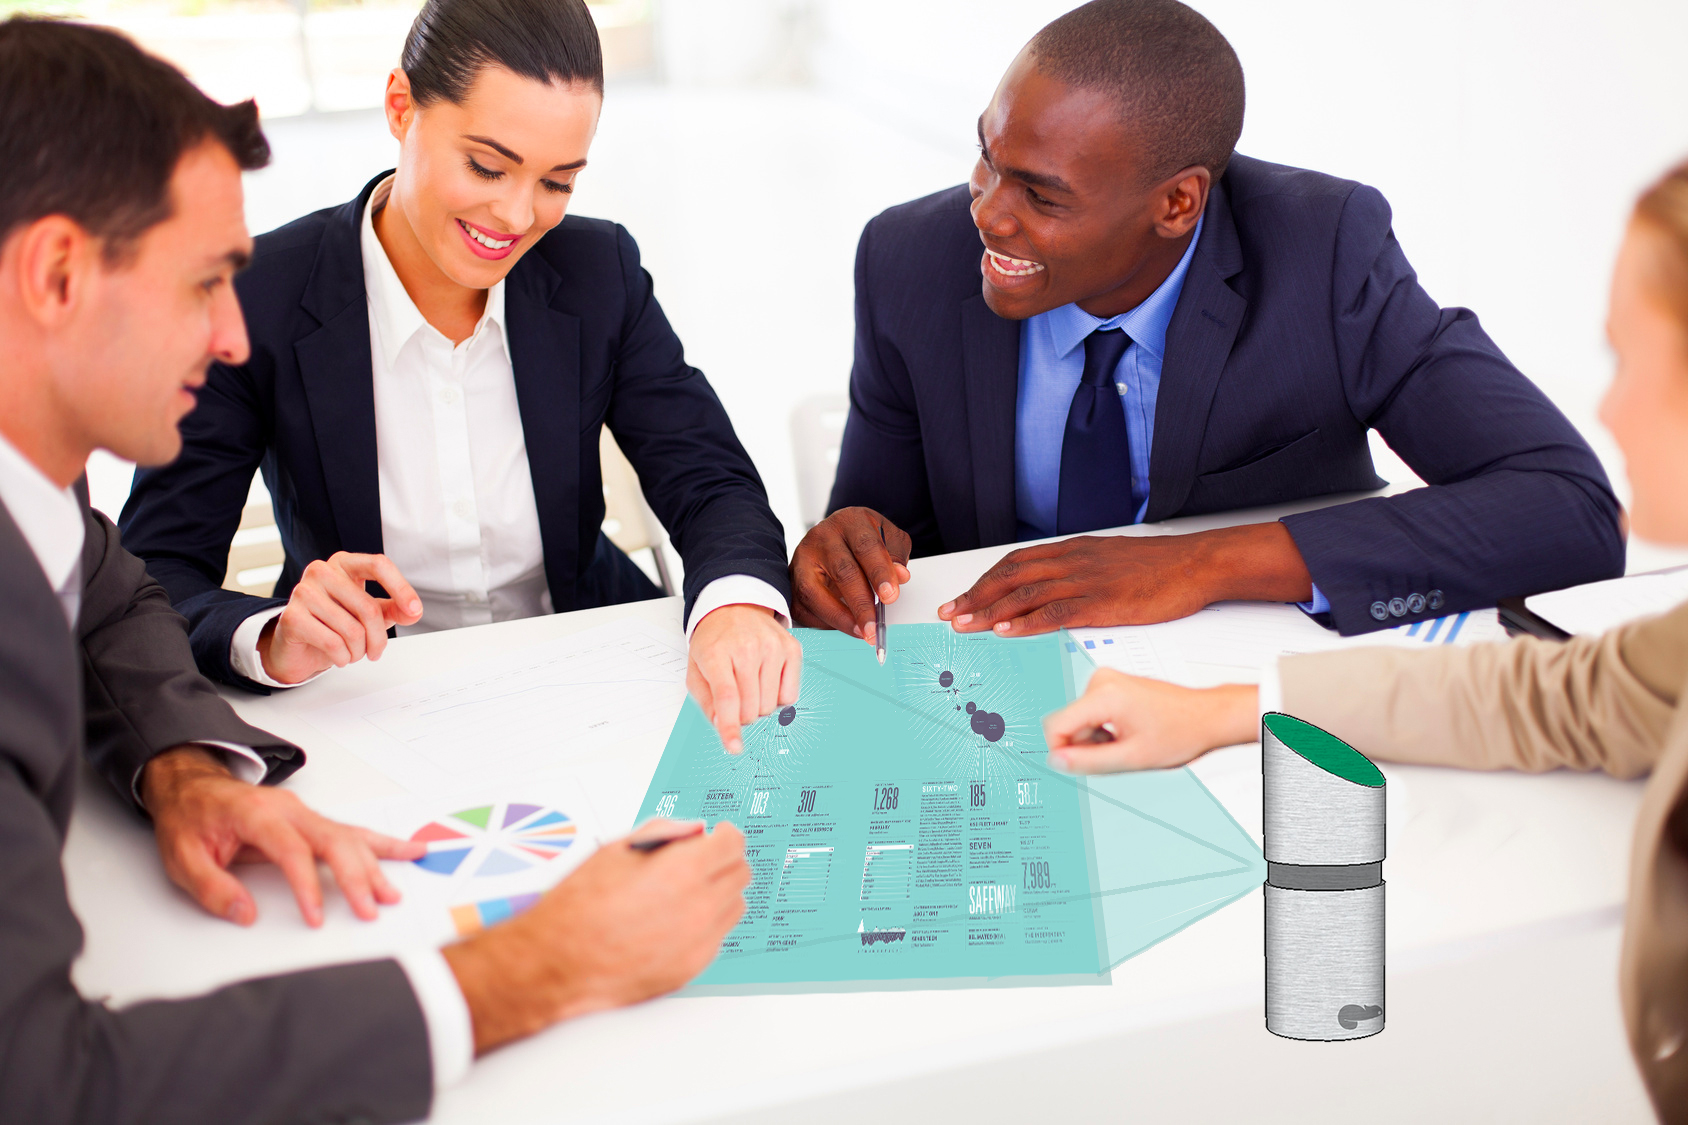
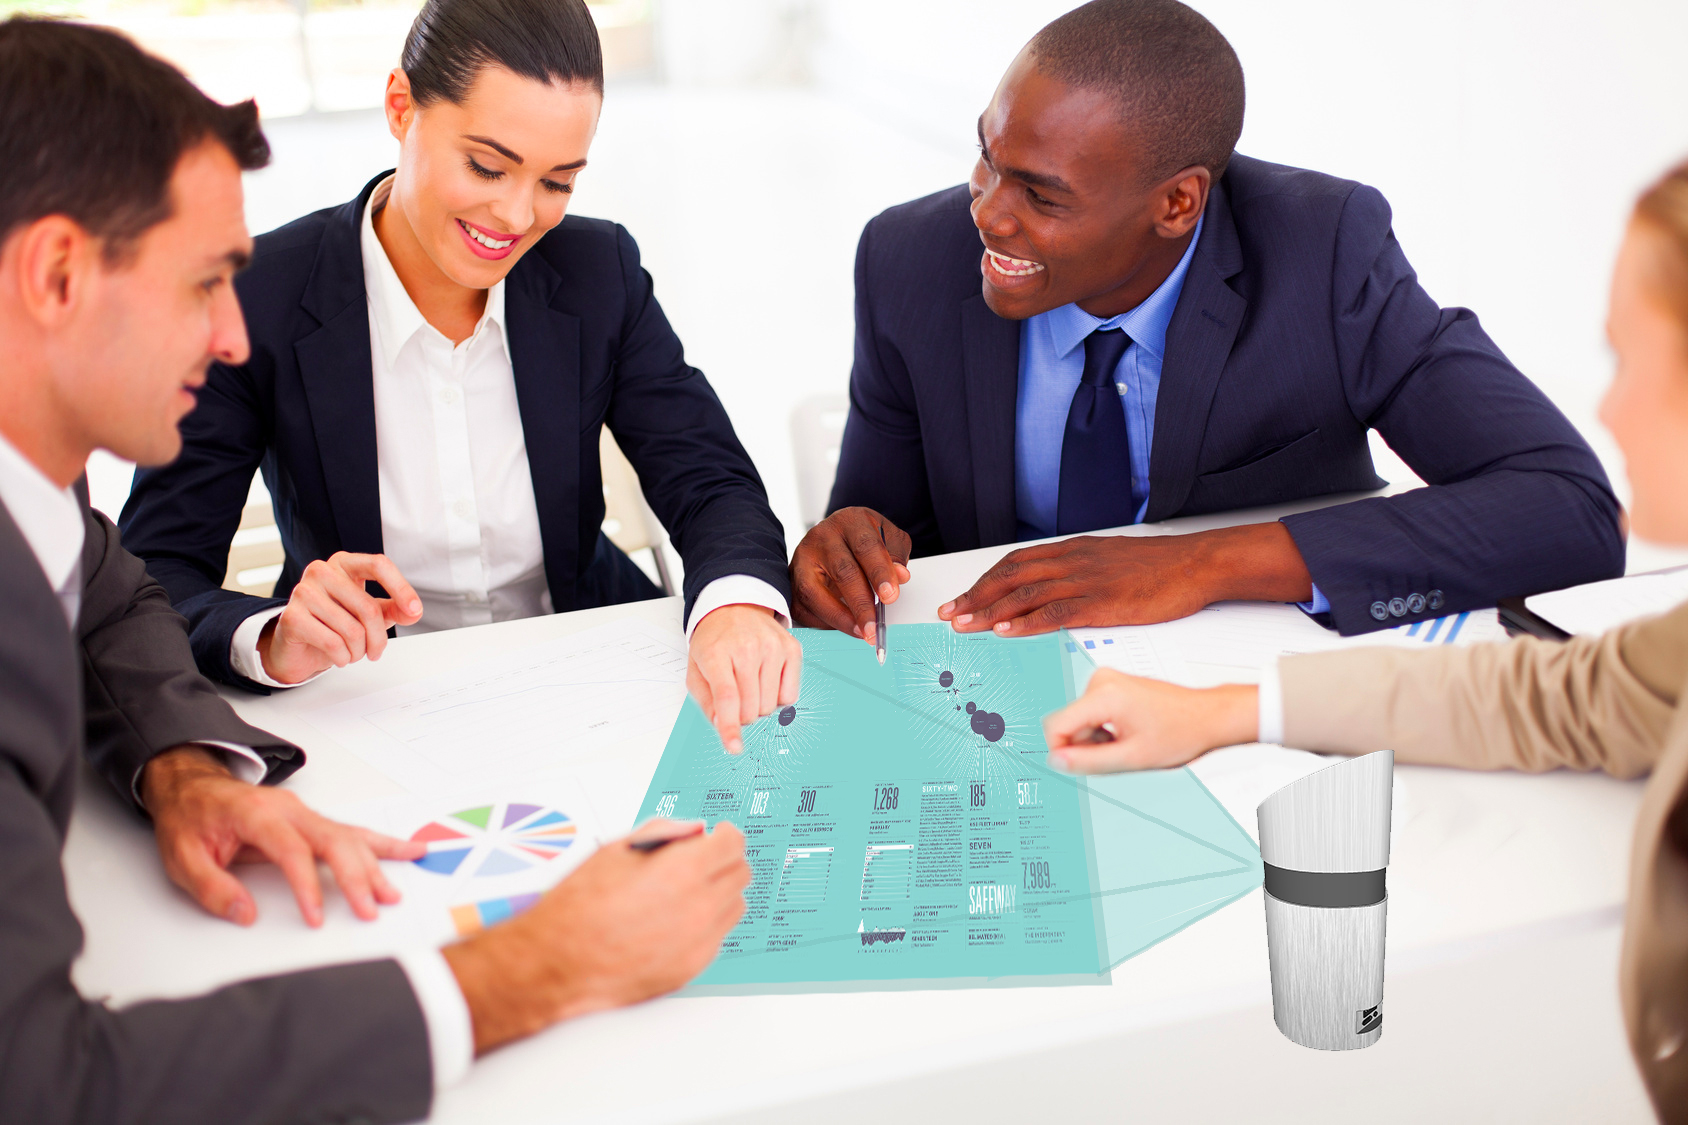
add 3D, respace and tout le tralala

Changed region(s): [[0.7393, 0.6222, 0.8318, 0.9333]]

diff --git a/index.html b/index.html
@@ -148,12 +148,6 @@
   </div>     
 
 
-<div class=spacer> </div> 
-
-<h1> Vivez la réunion autremenet, comemncez à manipuler dès maintenant. </h1>
-
-<div class=spacer> </div>  
-
 
 <div class="wrapper">
   <div class="text-center">
@@ -165,7 +159,17 @@
 </form> 
 </div>  
 
-<div class=spacer> </div> 
+
+<h1> Vivez la réunion autremenent avec AMOK ! </h1>
+<div class=spacer> </div>  
+
+
+  <div class='' id='schema'>
+    <img src="../amok-github-pages/images/schema.png" height='600'>
+  </div>
+
+
+
  <hr class="soften" /> 
 
 <div class="down-wrapper test row">
@@ -198,9 +202,7 @@
     </p>
     </div>
 
-  <div class='pull-right' id='schema'>
-    <img src="../amok-github-pages/images/schema.png" height='400'>
-  </div>
+ <iframe src="https://3dwarehouse.sketchup.com/embed.html?mid=uc038f19d-dd8f-47ff-b63b-f1165e995649&width=580&height=326" frameborder="0" scrolling="yes" marginheight="0" marginwidth="0" width="580" height="326" class="col-md-6"></iframe>
 </ul>
 </div>
 
@@ -212,7 +214,6 @@
 
 <h1> IN </h1>
 
-<div class=spacer> </div>  
 <div class=spacer> </div> 
 
 

diff --git a/css/styles.css b/css/styles.css
@@ -141,6 +141,7 @@ h2{
 
 #schema{
 	padding-right: 50px;
+	text-align: center;
 }
 
 
